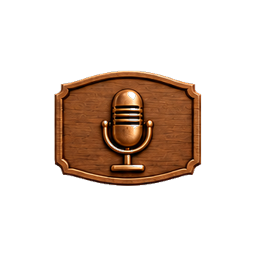
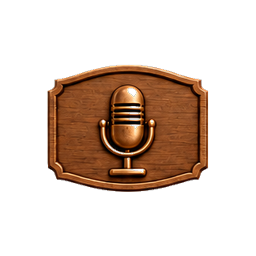
fix: equal shield height in assets and compact status strip segments
- Normalize skill-tier PNGs by content height (all tiers 128px tall)
- Tighten badge row gap-0.5 with items-end baseline
- Status strip: fixed w-2 segments instead of flex-1 full-width spread

Changed region(s): [[0.1562, 0.25, 0.8125, 0.75], [0.6562, 0.5, 0.6875, 0.5312], [0.6562, 0.4375, 0.6875, 0.4688]]

diff --git a/features/review-session/SessionRunStatusStrip.tsx b/features/review-session/SessionRunStatusStrip.tsx
@@ -58,7 +58,7 @@ export function SessionRunStatusStrip({ segments, className }: SessionRunStatusS
   return (
     <div
       ref={containerRef}
-      className={cn("flex w-full gap-1", className)}
+      className={cn("flex w-full gap-0.5", className)}
       role="list"
       aria-label={t("runStatusLabel")}
     >
@@ -72,7 +72,7 @@ export function SessionRunStatusStrip({ segments, className }: SessionRunStatusS
           role="listitem"
           aria-hidden
           className={cn(
-            "h-1.5 min-w-0 flex-1 rounded-sm transition-colors duration-300 ease-out-soft",
+            "h-1.5 w-2 shrink-0 rounded-sm transition-colors duration-300 ease-out-soft",
             layoutShiftMotion,
             STATUS_CLASS[segment.status],
           )}

diff --git a/features/method-menu/SkillTierBadge.tsx b/features/method-menu/SkillTierBadge.tsx
@@ -19,7 +19,7 @@ const TIER_LABEL: Record<SkillTier, string> = {
   platinum: "Platinum",
 };
 
-const skillTierBadgeVariants = cva("inline-flex h-14 shrink-0 items-center justify-center", {
+const skillTierBadgeVariants = cva("inline-flex h-14 shrink-0 items-end justify-center", {
   variants: {
     size: {
       card: "",
@@ -121,7 +121,7 @@ export function SkillTierBadgeRow({
   if (visible.length === 0 && overflow.length === 0) return null;
 
   return (
-    <span className={cn("inline-flex items-center gap-1", className)}>
+    <span className={cn("inline-flex items-end gap-0.5", className)}>
       {visible.map((mark) => (
         <SkillTierBadge key={mark.skill} skill={mark.skill} tier={mark.tier} size={size} />
       ))}

diff --git a/scripts/slice-skill-tier-badges.py b/scripts/slice-skill-tier-badges.py
@@ -224,7 +224,7 @@ def crop_cell(image: Image.Image, col: int, row: int, *, v2: bool) -> Image.Imag
 
 
 def normalize_badge(cell: Image.Image) -> Image.Image:
-    """Centre shield on a square canvas — tips stay inside alpha bounds."""
+    """Centre shield on a canvas — equal **height** across tiers (width may vary)."""
     if cell.mode != "RGBA":
         cell = key_background_to_alpha(cell)
     bbox = _opaque_bbox(cell)
@@ -233,13 +233,14 @@ def normalize_badge(cell: Image.Image) -> Image.Image:
 
     content = cell.crop(bbox)
     cw, ch = content.size
-    target = int(OUTPUT_SIZE * CONTENT_FILL)
-    scale = min(target / cw, target / ch)
-    nw, nh = max(1, int(cw * scale)), max(1, int(ch * scale))
+    target_h = int(OUTPUT_SIZE * CONTENT_FILL)
+    scale = target_h / ch
+    nw, nh = max(1, int(cw * scale)), target_h
     content = content.resize((nw, nh), Image.Resampling.LANCZOS)
 
-    canvas = Image.new("RGBA", (OUTPUT_SIZE, OUTPUT_SIZE), (0, 0, 0, 0))
-    canvas.paste(content, ((OUTPUT_SIZE - nw) // 2, (OUTPUT_SIZE - nh) // 2), content)
+    canvas_w = max(OUTPUT_SIZE, nw + 16)
+    canvas = Image.new("RGBA", (canvas_w, OUTPUT_SIZE), (0, 0, 0, 0))
+    canvas.paste(content, ((canvas_w - nw) // 2, (OUTPUT_SIZE - nh) // 2), content)
     return canvas
 
 

diff --git a/docs/specs/feature/review-session.md b/docs/specs/feature/review-session.md
@@ -73,8 +73,10 @@ banners), not under the session title line.
 | Success-deep | Graded **Good** or **Easy** with no same-run repeat pending |
 
 When a poor grade re-inserts a card, that card's segment **moves** to match its
-next position in the queue; the move is animated (layout transition). The
-numeric `progress` line is unchanged. Owner decision 2026-08-18: strip at top,
+next position in the queue; the move is animated (layout transition). Segments
+use a **fixed width** (`w-2`) in a compact left-aligned row — not `flex-1` across
+the full viewport (owner 2026-08-18: full-width spread looked too far apart).
+The numeric `progress` line is unchanged. Owner decision 2026-08-18: strip at top,
 not bottom ([`../../IDEAS.md`](../../IDEAS.md) status-dots idea).
 
 ## Acceptance criteria

diff --git a/docs/specs/component/skill-tier-badge.md b/docs/specs/component/skill-tier-badge.md
@@ -30,7 +30,9 @@ Implementation: `features/method-menu/SkillTierBadge.tsx`,
 
 Height is the single sizing axis. Wider gold/platinum silhouettes must not be
 scaled down to fit a fixed-width box — that made higher tiers look smaller than
-wood/bronze on the same row.
+wood/bronze on the same row. PNGs are normalised by **content height** in
+`scripts/slice-skill-tier-badges.py` (not `min(w,h)` fit). Row `gap-0.5`;
+badges align `items-end` on a shared baseline.
 
 PNG assets: **256×256** normalised canvas, shield **≤50%** fill — ≥21% transparent
 margin (`scripts/slice-skill-tier-badges.py`, ornate source grid).
